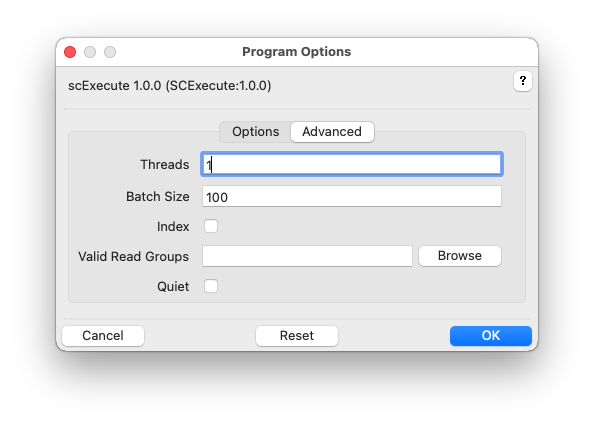
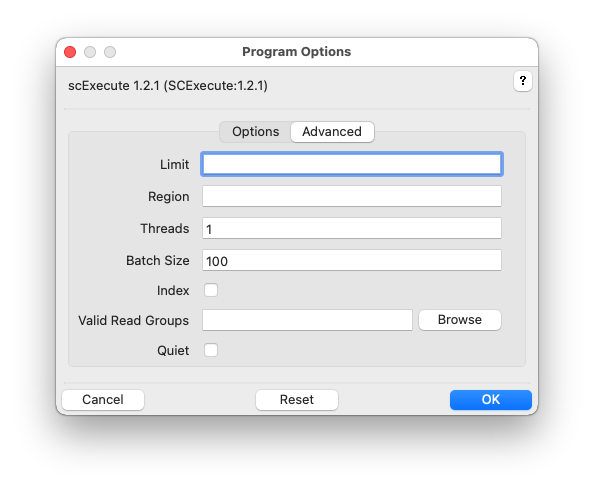
update screenshots and download link

Changed region(s): [[0.1212, 0.2447, 0.8485, 0.7341], [0.0909, 0.0612, 0.9091, 0.2141], [0.0909, 0.7647, 0.9091, 0.8565]]

diff --git a/SCExecute/README.md b/SCExecute/README.md
@@ -24,7 +24,7 @@ on BAM file tags or RNA sequence name and delimited tokens or regular
 expressions (see Read Grouping documentation). 
 
 **Setup:**
-* [Download](https://github.com/HorvathLab/NGS/releases/tag/SCExecute-1.2.0)
+* [Download](https://github.com/HorvathLab/NGS/releases/tag/SCExecute-1.2.1)
 * [Install](docs/Installation.md)
 
 **Usage:**
